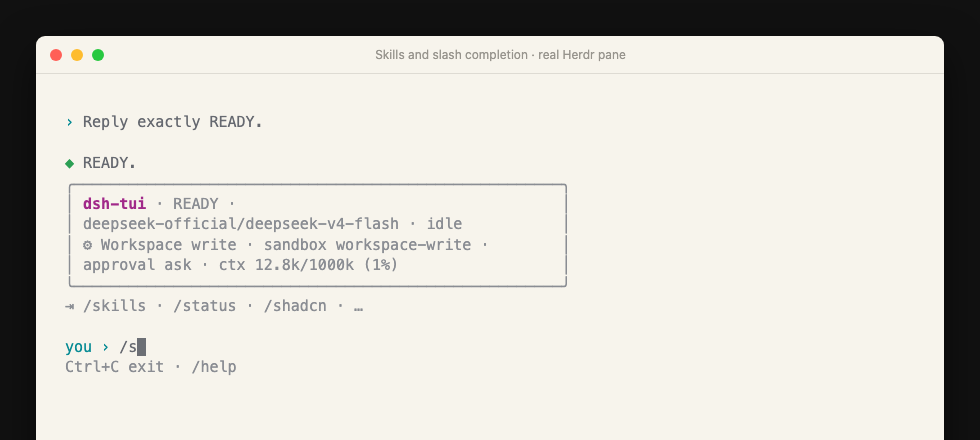
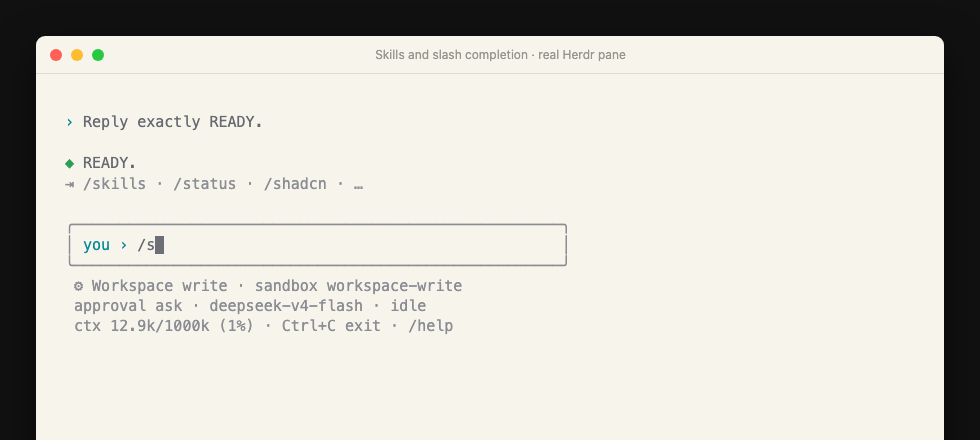
feat: move status beneath bordered composer

Changed region(s): [[0.0612, 0.3841, 0.5816, 0.8568], [0.4286, 0.7091, 0.4592, 0.7682]]

diff --git a/dist/index.js b/dist/index.js
@@ -867,32 +867,8 @@ function App({ controller }) {
   const fullAccess = preset === "danger-full-access";
   const sandbox = state.permission.sandbox ?? "default";
   const approval = state.permission.approval ?? "default";
+  const model = state.model?.split("/").at(-1) ?? "model pending";
   return /* @__PURE__ */ jsxs(Box, { flexDirection: "column", children: [
-    /* @__PURE__ */ jsxs(Box, { flexDirection: "column", borderStyle: "round", borderColor: palette.border, paddingX: 1, children: [
-      /* @__PURE__ */ jsxs(Text, { children: [
-        /* @__PURE__ */ jsx(Text, { bold: true, color: palette.brand, children: "dsh-tui" }),
-        /* @__PURE__ */ jsxs(Text, { color: palette.muted, children: [
-          " \xB7 ",
-          state.title,
-          " \xB7 ",
-          state.model ?? "loading",
-          " \xB7 ",
-          state.status
-        ] })
-      ] }),
-      /* @__PURE__ */ jsxs(Text, { children: [
-        /* @__PURE__ */ jsx(Text, { color: palette.muted, children: "\u2699 " }),
-        /* @__PURE__ */ jsx(Text, { color: fullAccess ? palette.warning : palette.muted, bold: fullAccess, children: permissionLabel(preset) }),
-        /* @__PURE__ */ jsxs(Text, { color: palette.muted, children: [
-          " \xB7 sandbox ",
-          sandbox,
-          " \xB7 approval ",
-          approval,
-          " \xB7 ",
-          contextUsageLabel(state.usage, state.contextWindow)
-        ] })
-      ] })
-    ] }),
     /* @__PURE__ */ jsx(Static, { items: state.items, children: (item) => /* @__PURE__ */ jsx(TranscriptRow, { item, palette }, item.id) }),
     state.activeTools.map((item) => /* @__PURE__ */ jsx(TranscriptRow, { item, palette }, item.id)),
     state.reasoningText === "" ? null : /* @__PURE__ */ jsx(Box, { marginTop: 1, children: /* @__PURE__ */ jsxs(Text, { color: palette.muted, children: [
@@ -916,14 +892,43 @@ function App({ controller }) {
       "\u21E5 ",
       completionPreview2
     ] }),
-    /* @__PURE__ */ jsxs(Box, { marginTop: 1, children: [
-      /* @__PURE__ */ jsx(Text, { color: prompt === void 0 ? palette.user : palette.warning, children: promptLabel }),
-      /* @__PURE__ */ jsx(TextInput, { value, onChange: changeValue, onSubmit: submit })
-    ] }),
-    /* @__PURE__ */ jsxs(Text, { color: palette.muted, children: [
-      "Ctrl+C ",
-      state.status === "running" ? "cancel" : "exit",
-      " \xB7 /help"
+    /* @__PURE__ */ jsxs(
+      Box,
+      {
+        marginTop: 1,
+        borderStyle: "round",
+        borderColor: prompt === void 0 ? palette.border : palette.warning,
+        paddingX: 1,
+        width: "100%",
+        children: [
+          /* @__PURE__ */ jsx(Text, { color: prompt === void 0 ? palette.user : palette.warning, children: promptLabel }),
+          /* @__PURE__ */ jsx(Box, { flexGrow: 1, children: /* @__PURE__ */ jsx(TextInput, { value, onChange: changeValue, onSubmit: submit }) })
+        ]
+      }
+    ),
+    /* @__PURE__ */ jsxs(Box, { flexDirection: "column", paddingX: 1, children: [
+      /* @__PURE__ */ jsxs(Text, { children: [
+        /* @__PURE__ */ jsx(Text, { color: palette.muted, children: "\u2699 " }),
+        /* @__PURE__ */ jsx(Text, { color: fullAccess ? palette.warning : palette.muted, bold: fullAccess, children: permissionLabel(preset) }),
+        /* @__PURE__ */ jsxs(Text, { color: palette.muted, children: [
+          " \xB7 sandbox ",
+          sandbox
+        ] })
+      ] }),
+      /* @__PURE__ */ jsxs(Text, { color: palette.muted, children: [
+        "approval ",
+        approval,
+        " \xB7 ",
+        model,
+        " \xB7 ",
+        state.status
+      ] }),
+      /* @__PURE__ */ jsxs(Text, { color: palette.muted, children: [
+        contextUsageLabel(state.usage, state.contextWindow),
+        " \xB7 Ctrl+C ",
+        state.status === "running" ? "cancel" : "exit",
+        " \xB7 /help"
+      ] })
     ] })
   ] });
 }

diff --git a/src/app.tsx b/src/app.tsx
@@ -102,26 +102,10 @@ export function App({ controller }: { controller: TuiController }): React.JSX.El
   const fullAccess = preset === 'danger-full-access'
   const sandbox = state.permission.sandbox ?? 'default'
   const approval = state.permission.approval ?? 'default'
+  const model = state.model?.split('/').at(-1) ?? 'model pending'
 
   return (
     <Box flexDirection="column">
-      <Box flexDirection="column" borderStyle="round" borderColor={palette.border} paddingX={1}>
-        <Text>
-          <Text bold color={palette.brand}>dsh-tui</Text>
-          <Text color={palette.muted}> · {state.title} · {state.model ?? 'loading'} · {state.status}</Text>
-        </Text>
-        <Text>
-          <Text color={palette.muted}>⚙ </Text>
-          <Text color={fullAccess ? palette.warning : palette.muted} bold={fullAccess}>
-            {permissionLabel(preset)}
-          </Text>
-          <Text color={palette.muted}>
-            {' · sandbox '}{sandbox}{' · approval '}{approval}{' · '}
-            {contextUsageLabel(state.usage, state.contextWindow)}
-          </Text>
-        </Text>
-      </Box>
-
       <Static items={state.items}>
         {(item) => <TranscriptRow key={item.id} item={item} palette={palette} />}
       </Static>
@@ -149,11 +133,36 @@ export function App({ controller }: { controller: TuiController }): React.JSX.El
       {prompt !== undefined || completionOptions.length === 0 ? null : (
         <Text color={palette.muted}>⇥ {completionPreview}</Text>
       )}
-      <Box marginTop={1}>
+      <Box
+        marginTop={1}
+        borderStyle="round"
+        borderColor={prompt === undefined ? palette.border : palette.warning}
+        paddingX={1}
+        width="100%"
+      >
         <Text color={prompt === undefined ? palette.user : palette.warning}>{promptLabel}</Text>
-        <TextInput value={value} onChange={changeValue} onSubmit={submit} />
+        <Box flexGrow={1}>
+          <TextInput value={value} onChange={changeValue} onSubmit={submit} />
+        </Box>
       </Box>
-      <Text color={palette.muted}>Ctrl+C {state.status === 'running' ? 'cancel' : 'exit'} · /help</Text>
+      <Box flexDirection="column" paddingX={1}>
+        <Text>
+          <Text color={palette.muted}>⚙ </Text>
+          <Text color={fullAccess ? palette.warning : palette.muted} bold={fullAccess}>
+            {permissionLabel(preset)}
+          </Text>
+          <Text color={palette.muted}>
+            {' · sandbox '}{sandbox}
+          </Text>
+        </Text>
+        <Text color={palette.muted}>
+          {'approval '}{approval}{' · '}{model}{' · '}{state.status}
+        </Text>
+        <Text color={palette.muted}>
+          {contextUsageLabel(state.usage, state.contextWindow)}{' · Ctrl+C '}
+          {state.status === 'running' ? 'cancel' : 'exit'}{' · /help'}
+        </Text>
+      </Box>
     </Box>
   )
 }

diff --git a/README.md b/README.md
@@ -55,7 +55,7 @@ Inside the UI:
 - `Ctrl+C` cancels a running turn. When idle, it saves and exits.
 - `/status`, `/permission`, `/skills`, `/cancel`, `/help`, `/quit`, and `/exit` are available.
 - Tool calls, reasoning, approvals, and `ask_user_question` prompts render in the terminal.
-- The header always shows the current permission preset, sandbox/approval policy, and accumulated context usage. `/permission` switches this session through DSH's official command — idle only, with a typed `FULL ACCESS` confirmation for full access.
+- The bordered composer keeps input visually anchored; the status bar beneath it always shows the current permission preset, sandbox/approval policy, model state, and accumulated context usage. `/permission` switches this session through DSH's official command — idle only, with a typed `FULL ACCESS` confirmation for full access.
 - `/skills` lists user-invocable skills. Type `/skill-name` to load one directly; slash commands and catalog skills offer Tab completion.
 
 ## Interface states
@@ -107,7 +107,7 @@ Run `/status` inside the TUI to see the resolved theme and where it came from.
 
 This package never reads or stores a DeepSeek key itself. It uses the normal DSH credential chain, including `~/.dsh/.credentials.yaml` and supported environment variables.
 
-The default DSH permission preset is `workspace-write` with interactive approval. The TUI answers DSH's official `approval/request` and user-question seams; it does not bypass the sandbox. The current preset and underlying sandbox/approval values are always visible in the header, and `/permission` (bare or with a preset name) switches it through the official `/permission` command — switches are idle-only, affect only the current session, and full access requires typing `FULL ACCESS` to confirm.
+The default DSH permission preset is `workspace-write` with interactive approval. The TUI answers DSH's official `approval/request` and user-question seams; it does not bypass the sandbox. The current preset and underlying sandbox/approval values are always visible beneath the composer, and `/permission` (bare or with a preset name) switches it through the official `/permission` command — switches are idle-only, affect only the current session, and full access requires typing `FULL ACCESS` to confirm.
 
 ## Scope
 
